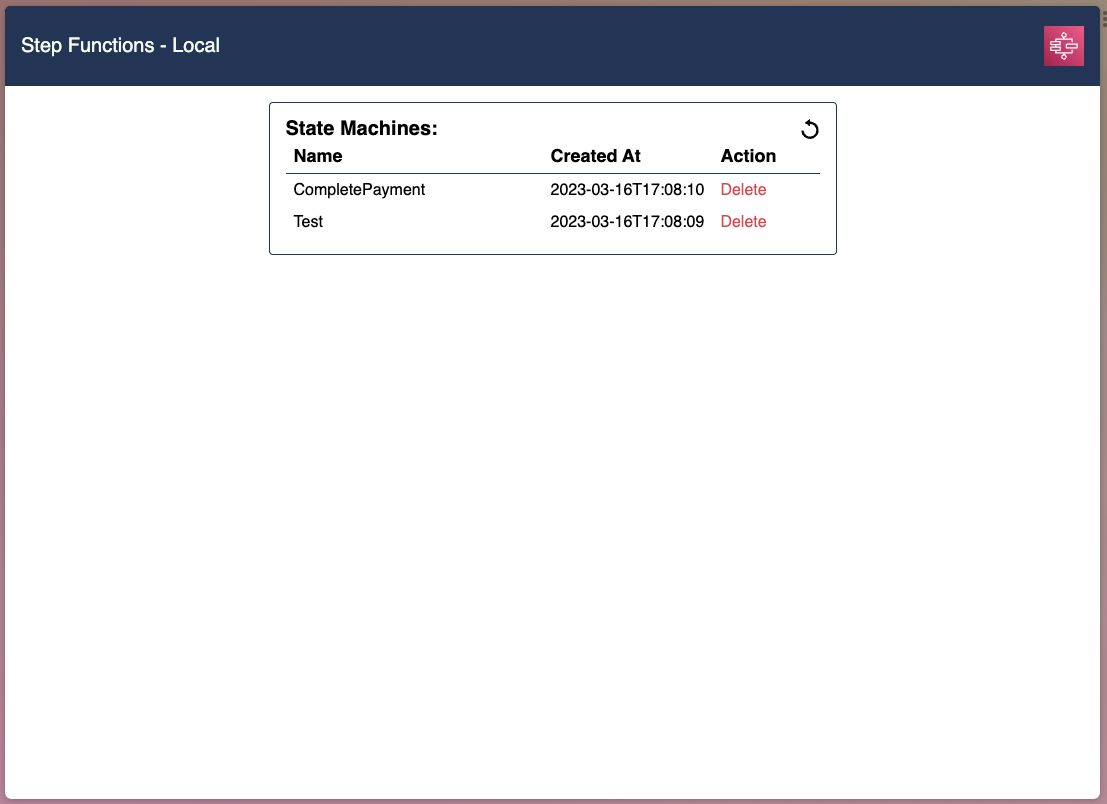
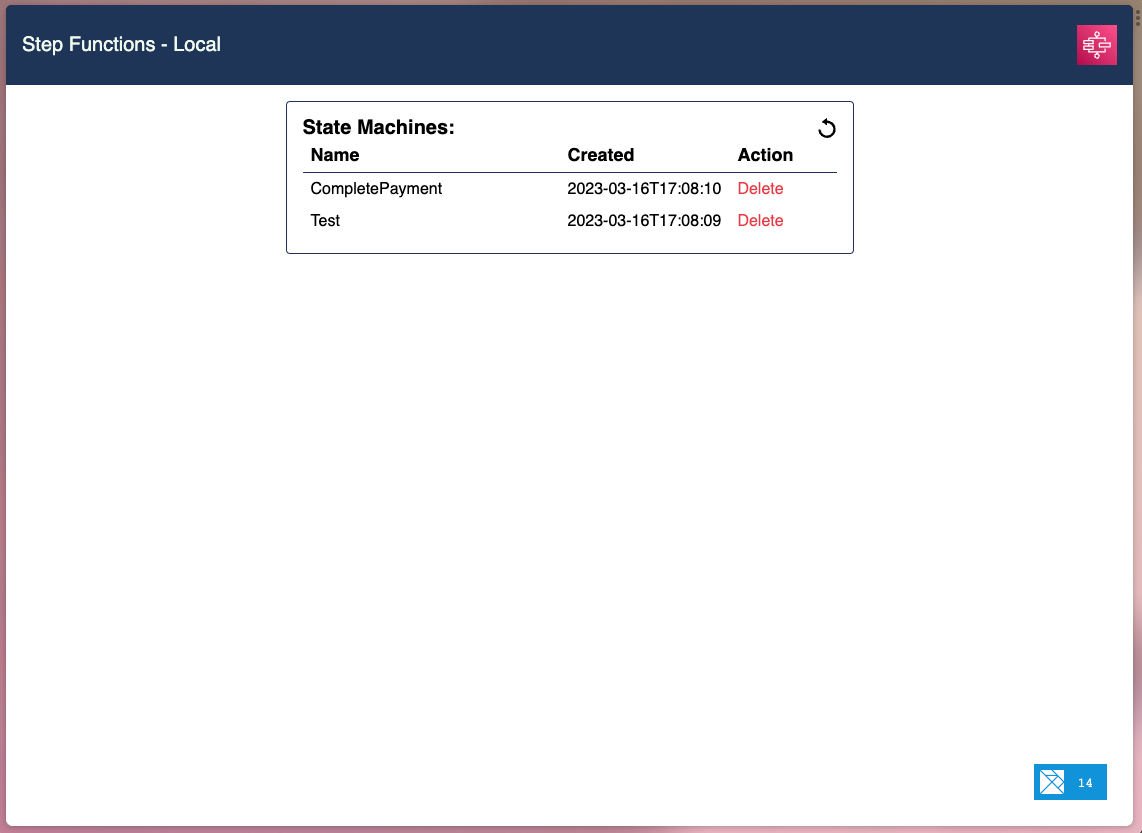
docs: add more screenshots and rename some labels

Changed region(s): [[0.0, 0.0, 1.0, 1.0], [0.4914, 0.1555, 0.7064, 0.3109], [0.0, 0.0311, 0.215, 0.0622]]

diff --git a/README.md b/README.md
@@ -6,6 +6,12 @@ Well, this is it 🤟
 First screen shows your local state machines.
 ![state machines view](src/static/state-machines.png)
 
+State machine's executions.
+![state machine's executions](src/static/executions.png)
+
+...and execution steps.
+![execution's steps](src/static/events.png)
+
 ### Prerequisites
 - Elm
   - https://guide.elm-lang.org/install/elm.html
